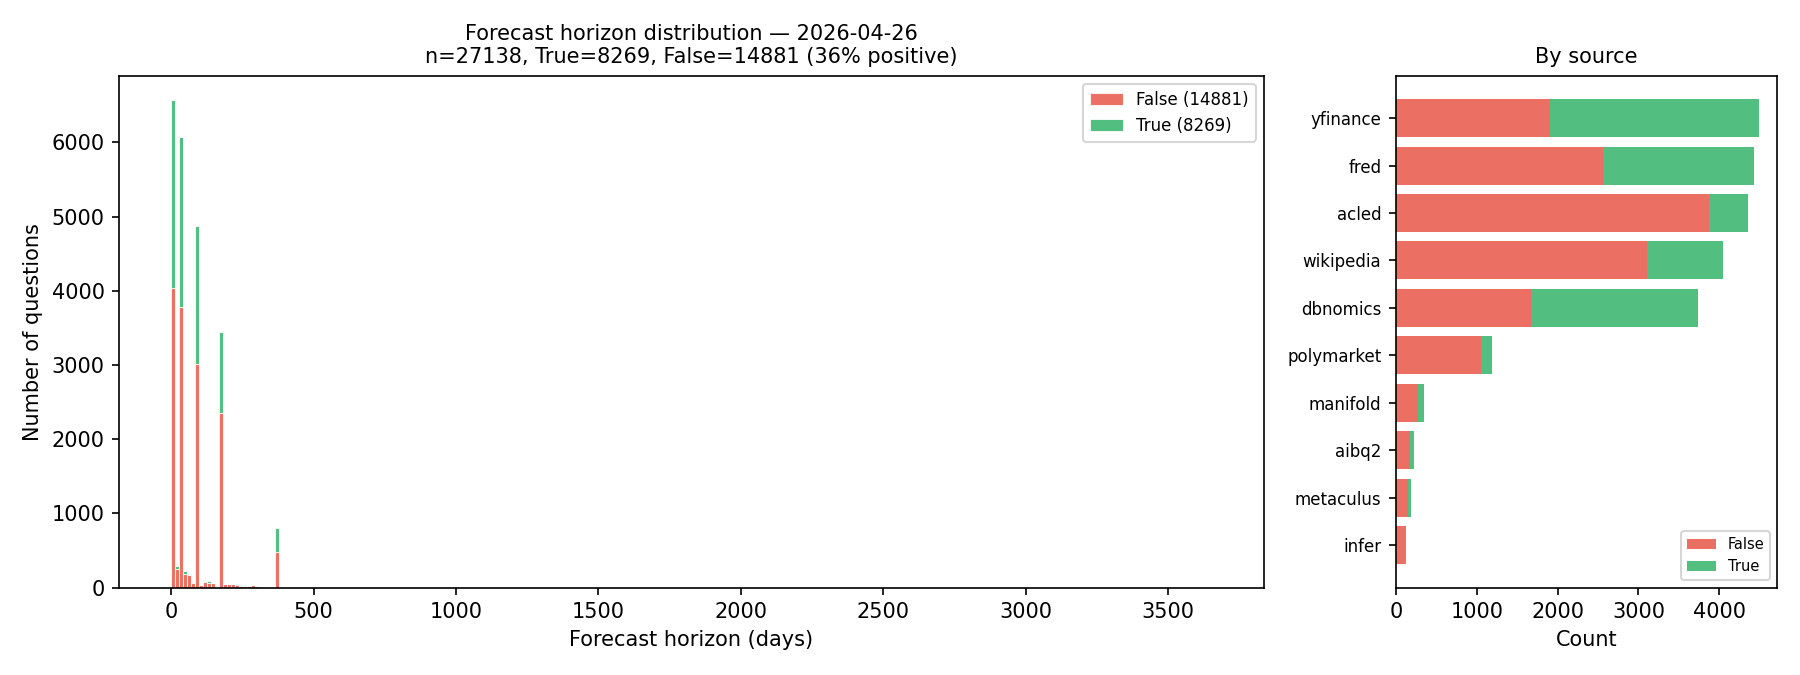
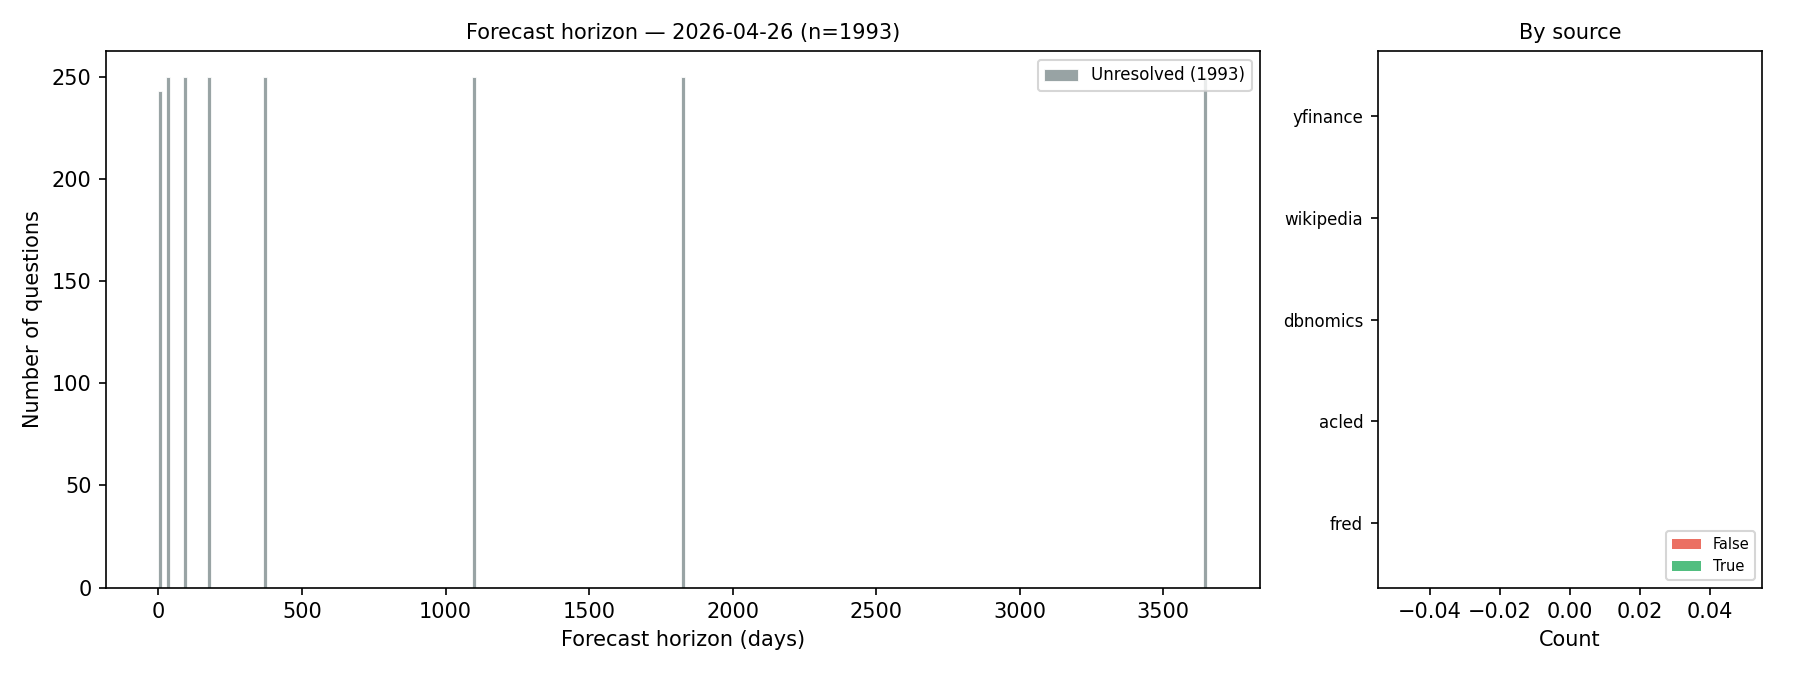
make_exam: handle unresolved-only exams; don't fail on plot errors
Two fixes triggered by today's live-exam build:

1. plot_exams.generate_horizon_histogram crashed when EVERY question
   was unresolved (live exam, all outcomes None). The (mask_true,
   mask_false) branches both skipped, leaving data_list empty but
   matplotlib hist somehow still saw 1 dataset and 0 colors. Add a
   third "Unresolved" bucket (gray) and an empty-list guard so the
   plot draws cleanly when no labels are known.

2. make_exam.main was crashing the whole subprocess on a plotting
   error AFTER indices.json had already been written. Wrap the three
   plot calls in try/except — plotting is cosmetic, the exam build
   itself is done. Compete.py treats subprocess exit codes as fatal
   so this would otherwise abort the live pipeline.

Verified: rebuilding 2026-04-26 (500 unresolved questions) now
completes with both rdate_by_fdate_scatter.png and
horizon_histogram.png produced and exit code 0.

diff --git a/src/data/make_exam.py b/src/data/make_exam.py
@@ -278,19 +278,29 @@ def main():
                                 generate_tag_distribution)
         from config.tags import get_tags_for_exam, discover_classified_spaces
 
-        p = generate_rdate_by_fdate_scatter(args.name, indices)
-        if p:
-            print(f"  {p}")
-        p = generate_horizon_histogram(args.name, indices)
-        if p:
-            print(f"  {p}")
+        # Plotting is cosmetic — indices.json is already written, so
+        # don't let a plotting bug fail the whole exam build (compete.py
+        # treats a non-zero exit as fatal).
+        for fn, args_ in [
+            (generate_rdate_by_fdate_scatter, (args.name, indices)),
+            (generate_horizon_histogram,      (args.name, indices)),
+        ]:
+            try:
+                p = fn(*args_)
+                if p:
+                    print(f"  {p}")
+            except Exception as e:
+                print(f"  WARNING: {fn.__name__} failed: {e}")
         for ls in discover_classified_spaces():
             tags = get_tags_for_exam(indices, ls)
             if tags:
-                p = generate_tag_distribution(args.name, tags, tag_version=ls,
-                                              n_total=total)
-                if p:
-                    print(f"  {p}")
+                try:
+                    p = generate_tag_distribution(args.name, tags, tag_version=ls,
+                                                  n_total=total)
+                    if p:
+                        print(f"  {p}")
+                except Exception as e:
+                    print(f"  WARNING: tag-distribution plot failed: {e}")
 
 
 if __name__ == "__main__":

diff --git a/src/data/plot_exams.py b/src/data/plot_exams.py
@@ -334,6 +334,8 @@ def generate_horizon_histogram(exam_name, exam):
 
     mask_true = df["outcome"] == 1.0
     mask_false = df["outcome"] == 0.0
+    mask_unresolved = ~(mask_true | mask_false)
+    n_unres = int(mask_unresolved.sum())
 
     data_list, labels, colors = [], [], []
     if mask_false.any():
@@ -344,9 +346,17 @@ def generate_horizon_histogram(exam_name, exam):
         data_list.append(df.loc[mask_true, "horizon_days"].values)
         labels.append(f"True ({npos})")
         colors.append("#27ae60")
+    if mask_unresolved.any():
+        data_list.append(df.loc[mask_unresolved, "horizon_days"].values)
+        labels.append(f"Unresolved ({n_unres})")
+        colors.append("#7f8c8d")
 
-    ax.hist(data_list, bins=bins, stacked=True, color=colors, label=labels,
-            edgecolor="white", linewidth=0.5, alpha=0.8)
+    if data_list:
+        ax.hist(data_list, bins=bins, stacked=True, color=colors, label=labels,
+                edgecolor="white", linewidth=0.5, alpha=0.8)
+    else:
+        ax.text(0.5, 0.5, "no horizon data",
+                ha="center", va="center", transform=ax.transAxes)
     ax.set_xlabel("Forecast horizon (days)")
     ax.set_ylabel("Number of questions")
     ax.legend(fontsize=8)
